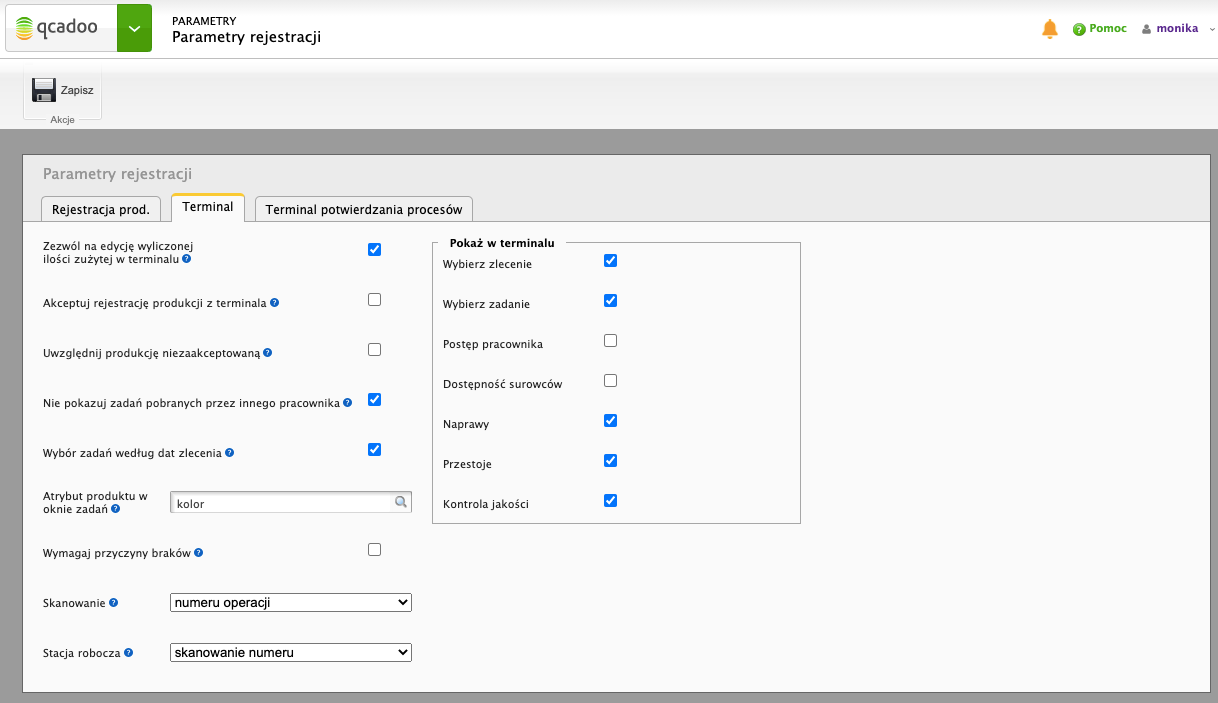
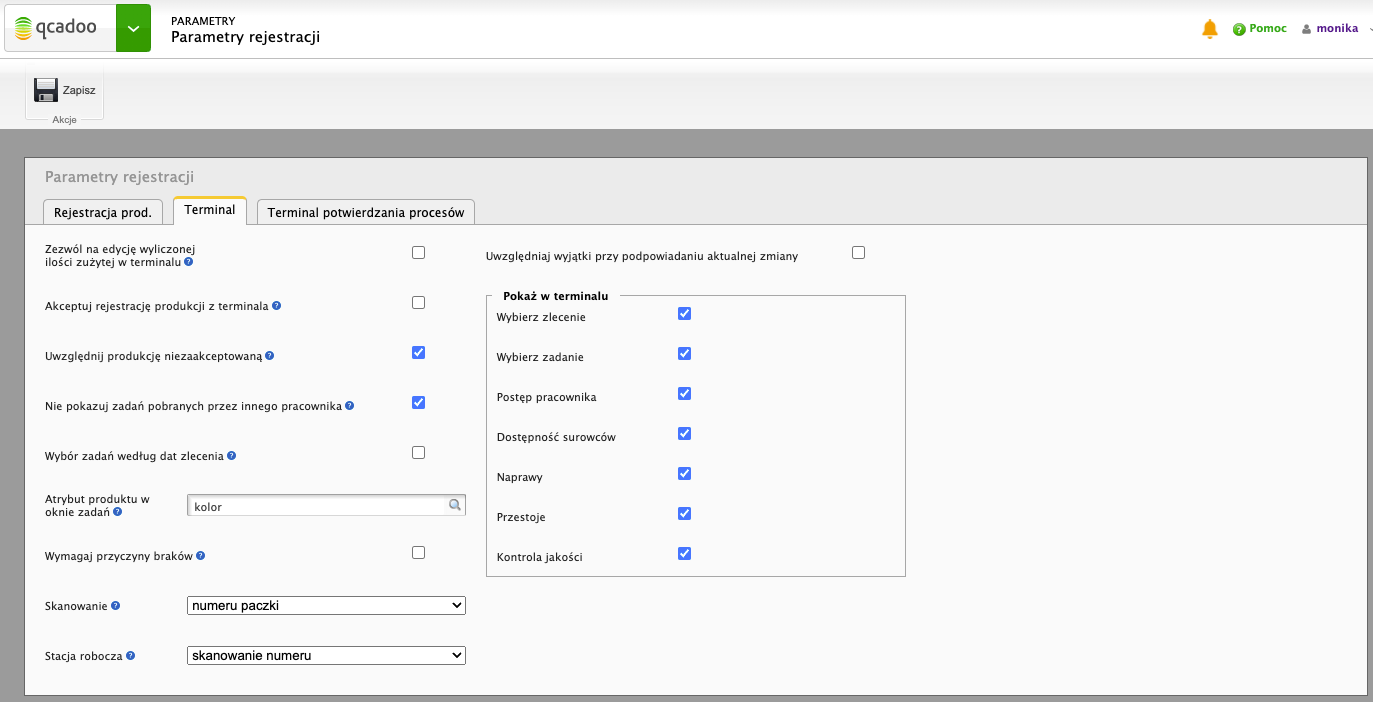
Settlement of material costs for groups of orders

diff --git a/pages/analizy/rozliczenie-kosztow-mat-grup-zlecen.md b/pages/analizy/rozliczenie-kosztow-mat-grup-zlecen.md
@@ -1,0 +1,52 @@
+---
+title: "Rozliczenie kosztów materiałowych grup zleceń"
+permalink: rozliczenie-kosztow-mat-grup-zlecen.html 
+---
+
+Rozliczenie kosztów materiałowych grup zleceń pozwoli na przeanalizowanie poniesionych kosztów materiału na rzecz całej grupy zleceń. Rozliczenie zbierze informacje zarówno z [wydań do zlecenia](/rejestracja-produkcji.html#jak-rejestrować-produkcję-i-wprowadzać-meldunki-zwrotne), jak z ręcznych rozchodów zaewidencjonowanych z dokładnością do [zapotrzebowania materiałowego grupy zleceń](/grupy-zlecen.html#wydawanie-materiałów-do-grupy-zleceń).
+
+{% include callout.html content="Jeśli wydajesz materiały ręcznie do grupy zleceń, poprzez funkcję wydania do zapotrzebowania materiałowego, to standardowe rozliczenie produkcji, nie pokaże właściwych informacji o kosztach materiału. W takiej sytuacji w zleceniu nie są zapisane dane o zużyciu. Aby przeanalizować koszty konieczne jest skorzystanie z omawianego rozliczenia." type="warning" %}
+
+Aby wygenerować rozliczenie wejdź w **Analizy > Rozliczenie materiałowe grup zleceń** i kliknij {% include inline_image.html file="newIcon24.png" alt="Przycisk Dodaj nowy" %} **Dodaj nowy**:
+
+{% include lightbox.html file="analizaRozliczenieKosztowMaterialowychGrupZlecenNowe.png" alt="Dodawanie nowego rozliczenia kosztów materiałowych grupy zleceń" caption="Dodawanie nowego rozliczenia kosztów materiałowych grupy zleceń" %}
+
+Wskaż **grupę zleceń**, dla której chcesz przeprowadzić analizę. Jeśli chcesz - możesz nadać **nazwę** dla rozliczenia, ale nie jest to konieczne. Ustaw parametry:
+
+- **Planowany koszt na podstawie ceny** - do wyboru: koszt nominalny, średnio ważnona, cena ostatniego zakupu, średnia cena z ofert, cena z ostatniej oferty. Na podstawie wskazanej ceny będą ustalone koszty planowane
+- **Użyj kosztu nominalnego, gdy cena nie jest określona** - jeśli zaznaczysz parametr, to w sytuacji, gdy dany produkt nie ma kosztu wskazanego wyżej, to zostanie pobrany koszt nominalny
+- **Rzeczywisty koszt na podstawie** - do wyboru: dokumenty RW grupy zleceń i dokumenty RW zlecenia produkcyjnego. Jeśli wydajesz ręcznie materiały do grupy zleceń to wybierz opcję 'dokumenty RW grupy zleceń'. Jeśli dokumenty tworzone są do zlecenia (na akceptacji rekordu rejestracji, na zakończeniu zlecenia, czy przez ręczne wydanie ze szczegółowego zapotrzebowania), to wybierz opcję 'dokumenty RW zlecenia produkcyjnego'.
+
+Zapisz rozliczenie (przycisk: {% include inline_image.html file="zapisz.png" alt="Przycisk Zapisz" %} **Zapisz**) i wygeneruj {% include inline_image.html file="generateIcon24.png" alt="Generuj" %} **Generuj**:
+
+{% include lightbox.html file="analizaRozliczenieKosztowMaterialowychGrupZlecenWyniki.png" alt="Wygenerowane rozliczenie kosztów materiałowych grupy zleceń" caption="Wygenerowane rozliczenie kosztów materiałowych grupy zleceń" %}
+
+W oknie zostaną uzupełnione następujące dane:
+
+- **zlecona ilość** - suma zleconej ilości ze wszystkich zleceń wchodzących w skład danej grupy
+- **wyprodukowana ilość** - suma zaraportowanej wyprodukowanej ilości dla danej grupy
+- **odchylene ilości** - różnica wyprodukowanej ilości i zleconej ilości
+
+- **planowany koszt** - suma planowanych kosztów materiałowych dla danej grupy zleceń (wyznaczonych w oparciu o rodzaj ceny podany w oknie generowania)
+- **rzeczywisty koszt** - suma rzeczywiście poniesionych kosztów materiałowych podczas realizacji zleceń z danej grupy
+- **odchylenie kosztu** - różnica między rzeczywistym kosztem a planowanym kosztem
+
+Szczegółowe wyniki zaprezentowane są w pliku XLS. Aby go uruchomić kliknij przycisk: {% include inline_image.html file="xlsIcon24.png" alt="Przycisk XLS" %}
+
+Rozliczenie zaprezentowane jest w trzech arkuszach:
+
+1. **Ilości wyprodukowane** - gdzie dla każdego zlecenia pokazane są ilości planowane i faktycznie wytworzone. Widać też jakie produkty zostały wytworzone oraz to, czy zarejestrowano wytworzone odpady lub braki
+
+{% include lightbox.html file="analizaRozliczenieKosztowMaterialowychGrupZlecenNoweXLSXIlosci.png" alt="Ilości wyprodukowane w rozliczeniu kosztów materiałowych grup zleceń" caption="Ilości wyprodukowane w rozliczeniu kosztów materiałowych grup zleceń" %}
+
+{:start="2"}
+
+2. **Koszty materiałów** - gdzie zaprezentowane są wszystkie materiały zużywane w produkcji danej grupy, ich ilości (planowane i faktycznie użyte) oraz planowane i osiągnięte koszty
+
+{% include lightbox.html file="analizaRozliczenieKosztowMaterialowychGrupZlecenNoweXLSXKoszty.png" alt="Koszty materiałów w rozliczeniu kosztów materiałowych grup zleceń" caption="Koszty materiałów w rozliczeniu kosztów materiałowych grup zleceń" %}
+
+{:start="3"}
+
+3. **Wyniki kalkulacji** - zawierające podsumowanie kosztów materiałowych
+
+{% include lightbox.html file="analizaRozliczenieKosztowMaterialowychGrupZlecenNoweXLSXWyniki.png" alt="Wyniki kalkulacji w rozliczeniu kosztów materiałowych grup zleceń" caption="Wyniki kalkulacji w rozliczeniu kosztów materiałowych grup zleceń" %}

diff --git a/pages/technologie/operacje/normy-czasowe.md b/pages/technologie/operacje/normy-czasowe.md
@@ -5,6 +5,10 @@ permalink: normy-czasowe.html
 
 Normy czasowe operacji są podstawą do wyznaczenia czasu realizacji czynności. Dzięki temu wyznaczysz czas trwania zlecenia czy zadania operacyjnego, ale też określisz planowane koszty robocizny.
 
+Aby zdefiniować normy czasowe wejdź do **Technologie > Operacje** > szczegóły operacji > zakładka **Normy czasowe**
+
+{% include lightbox.html file="technologieOperacjeNormyCzasowe.png" alt="Normy czasowe" caption="Normy czasowe"%}
+
 Czasy operacji uwzględniają następujące parametry:
 
 - **Czas przygotowawczo-zakończeniowy (TPZ)**- obejmuje czas potrzebny do przygotowania stanowiska pracy i uruchomienia maszyny oraz czas po zakończeniu wykonywanych na niej operacji. Nie zależy od ilości wykonywanych sztuk produktu. Jest liczony tylko raz dla całej zadanej w tej operacji liczby produktów.
@@ -26,8 +30,14 @@ Współczynnik wykorzystania w czasie:
 - **Pracowników -** Jaką część czasu całkowitego operacji zajmuje praca pracowników
 - **Następna operacja po wyprodukowaniu:** - Po wykonaniu ilu jednostek można przystąpić do kolejnej operacji. (np. po wykonaniu dwóch kół, możemy przejść dalej, aby skręcić z nich rower)
 
-{% include lightbox.html file="technologie-%20operacje-%20normy%20czasowe.png" alt="Normy czasowe" caption="Normy czasowe"%}
+Czasy zdefiniowane z nagłówku to wartości domyślne. Jeśli jednak nie wszystkie stacje, wykonujące tą operację, są w stanie uzyskać takie normy, możesz w tabeli Normy czasowe inne dla stacji roboczych zdefiniować normy właściwe dla konkretnej maszyny. Kliknij w tym celu w przycisk {% include inline_image.html file="przyciskNowyMaly.png" alt="Przycisk Nowy" %} **Nowy**
 
-Wartości te mogą zostać wprowadzone w Operacjach i wtedy obowiązywać będą dla wszystkich zleceń tworzonych w oparciu o te normy.
+{% include lightbox.html file="technologieOperacjeNormyCzasoweStacja.png" alt="Normy czasowe stacji roboczej" caption="Normy czasowe stacji roboczej"%}
+
+Wybierz stację z listy przypisanych do operacji w zakładce Stacje robocze. Podaj dla nich co najmniej jeden czas: Tj, TPZ lub czas dodatkowy. I Zapisz.
+
+Podane normy czasowe operacji zostaną przekopiowane do technologii w momencie zaciągania operacji do drzewa. I tam możesz je zmodyfikować, ustalając właściwe czasy na rzecz produkcji danego wyrobu.
+
+Algorytmy wyliczające czas operacji dla stacji sprawdzą, czy istnieją normy dla konkretnej stacji, a jeśli nie zostaną znalezione - pobrane zostaną normy z nagłówka.
 
 Jeśli chcesz na podstawie norm czasowych podanych w szablonie operacji zaktualizować istniejące technologie, skorzystaj z funkcji **[Zbiorczej zmiany parametrów zlecenia](/zmiana-parametrow)**.

diff --git a/pages/technologie/technologie/technologie-szczegoly.md b/pages/technologie/technologie/technologie-szczegoly.md
@@ -74,11 +74,13 @@ Po zaznaczeniu operacji w drzewie uzupełnione zostają tabelki z produktami wej
 
 3. Przy pomocy {% include inline_image.html file="lupka.png" alt="Przycisk lupy" %} wybieramy "Produkt" dodawany do produktów wyjściowych. Podajemy następnie ilość, jaką produkuje operacja i wybieramy przycisk {% include inline_image.html file="saveIcon24.png" alt="Przycisk zapisu" %} **Zapisz,** by zachować. Możemy dodatkowo oznaczyć produkt
 
-4. W ostatniej operacji w drzewie, produkującej ostateczny produkt technologii, zostanie dodany automatycznie produkt finalny całej technologii. Dodatkowo w takim produkcie można zaznaczyć opcję **"Szablon"**.
+4. W ostatniej operacji w drzewie, produkującej ostateczny produkt technologii, zostanie dodany automatycznie produkt finalny całej technologii. 
 
 5. W celu dodania produktu wejściowego wybieramy przycisk {% include inline_image.html file="newIcon16.png" alt="Nowy" %} "Nowy" w tabelce **"Produkty wejściowe"**. 
 
 6. Przy pomocy {% include inline_image.html file="lupka.png" alt="Przycisk lupy" %} wybieramy "Produkt" dodawany do produktów wejściowych. Podajemy następnie ilość, jaką produkuje operacja - możemy podać ilość w innej jednostce, niż podstawowa jednostka produktu. Warunkiem jest zdefiniowanie wcześniej w produkcie przelicznika na wybraną jednostkę. Wybieramy następnie przycisk {% include inline_image.html file="saveIcon24.png" alt="Przycisk zapisu" %} **Zapisz,** by zachować. 
+
+{% include callout.html content="Technologia w statusie szkic może mieć podany produkt wejściowy bez podania ilości. Ilości będą musiały być uzupełnione do sprawdzenia czy akceptacji technologii." type="info" %}
 
 Produkt wejściowy możesz oznaczyć dodatkowym [typem](/typy-produktu-wejsciowego). Niesie to następujące korzyści: 
 - pracownik lepiej potrafi zidentyfikować surowiec zużywany

diff --git a/pages/parametry/parametry-rejestracji/parametry-rejestracja-produkcji.md b/pages/parametry/parametry-rejestracji/parametry-rejestracja-produkcji.md
@@ -85,7 +85,9 @@ Parametry terminala konfigurują [terminal rejestracji produkcji](/terminal). We
 
 9. **Stacja robocza** - wybierz jedną z metod wprowadzania stacji roboczej w terminalu - albo poprzez wybranie z listy albo poprzez zeskanowanie (lub ręczne wpisanie) numeru stacji
 
-10. **Pokaż w terminalu** - wskaż jakie przyciski lub obszary chcesz w terminalu ukryć. Po co ukrywać? Im mniej rozpraszaczy pracownik otrzyma, tym sprawniej zarejestruje produkcję. Wyłączyć możesz:
+10. **Uwzględniaj wyjątki przy podpowiadaniu aktualnej zmiany** - zaznacz parametr jeśli w trakcie wyjątku typu wolne w terminalu ma nie być podpowiadana aktualna zmiana. Jeśli parametr będzie niezaznaczony, to zmiana w terminalu podpowie się nawet, gdy wg kalendarza powinniśmy mieć przerwę w pracy (bo trwa wyjątek typu wolne).
+
+11. **Pokaż w terminalu** - wskaż jakie przyciski lub obszary chcesz w terminalu ukryć. Po co ukrywać? Im mniej rozpraszaczy pracownik otrzyma, tym sprawniej zarejestruje produkcję. Wyłączyć możesz:
 - przycisk **Wybierz zlecenie**
 - przycisk **Wybierz zadanie**
 - przycisk **Postęp pracownika**
